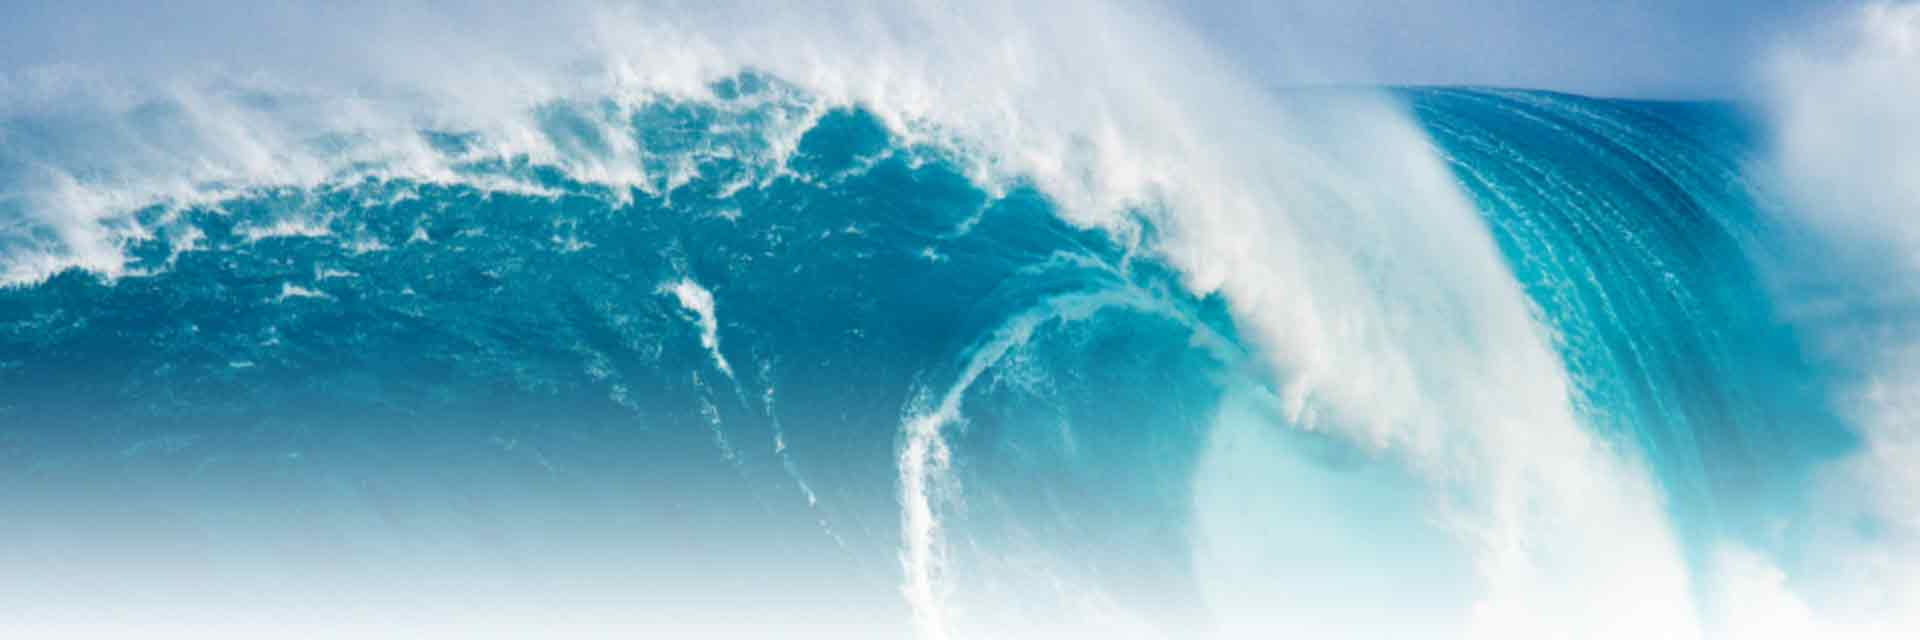
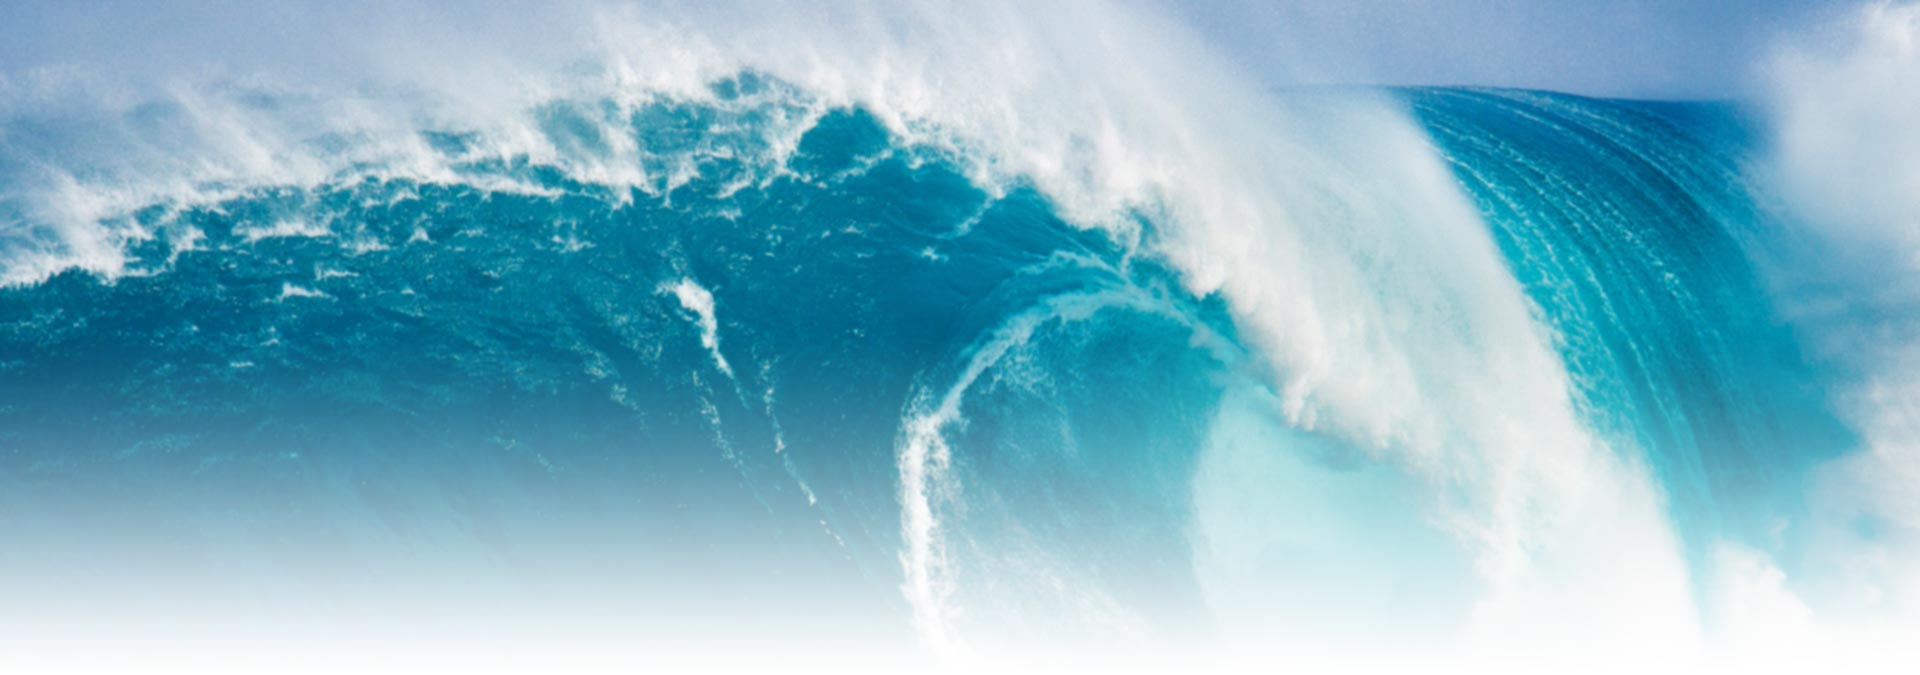
add intro

diff --git a/src/index.html b/src/index.html
@@ -55,14 +55,19 @@
     </div>
   </nav>
 
-<!--  <main role="main" class="container">
-
+  <main role="main">
+    <section class="intro">
+      <div class="container">
+        <h1>Ride every wave as if it's your last</h1>
+        <h2>We love the motion of the ocean</h2>
+      </div>
+    </section>
     <div class="starter-template">
       <h1>Bootstrap starter template</h1>
       <p class="lead">Use this document as a way to quickly start any new project.<br> All you get is this text and a mostly barebones HTML document.</p>
     </div>
 
-  </main>-->
+  </main>
   <!-- /.container -->
   <!--<app-root></app-root>-->
 </body>

diff --git a/src/assets/scss/abstracts/_variables.scss b/src/assets/scss/abstracts/_variables.scss
@@ -10,7 +10,7 @@ $base-font-serif: 'Playfair Display', 'Times', 'Baskerville', 'Georgia', serif;
 $nav-font-sans-serif: 'Montserrat', 'Helvetica Neue', 'Helvetica', sans-serif;
 
 // Body
-$base-text-color: $light-gray !default;
+$base-text-color: $black !default;
 $base-background-color: $white !default;
 $font-size-base: 16px !default;
 $line-height-base: 1.5 !default;

diff --git a/src/assets/scss/layout/_intro.scss b/src/assets/scss/layout/_intro.scss
@@ -1,0 +1,17 @@
+.intro{
+  text-align: center;
+  padding: 7.813em 0;
+
+  h1{
+    font-size: 3.125rem;
+    font-family: $base-font-serif;
+    font-style: italic;
+    margin: 0;
+  }
+  h2{
+    font-size: 1.5rem;
+    font-family: $base-font-serif;
+    font-style: italic;
+    color: $white;
+  }
+}

diff --git a/src/assets/scss/styles.scss b/src/assets/scss/styles.scss
@@ -23,5 +23,6 @@ $breakpoints: (
 @import 'components/forms';
 
 //Layout
+@import 'layout/content';
 @import 'layout/nav';
-@import 'layout/header';
+@import 'layout/intro';

diff --git a/src/assets/scss/layout/_content.scss b/src/assets/scss/layout/_content.scss
@@ -1,0 +1,4 @@
+body{
+  background: url("../images/header-bg.jpg") no-repeat;
+  padding-top: 4.625rem;
+}
